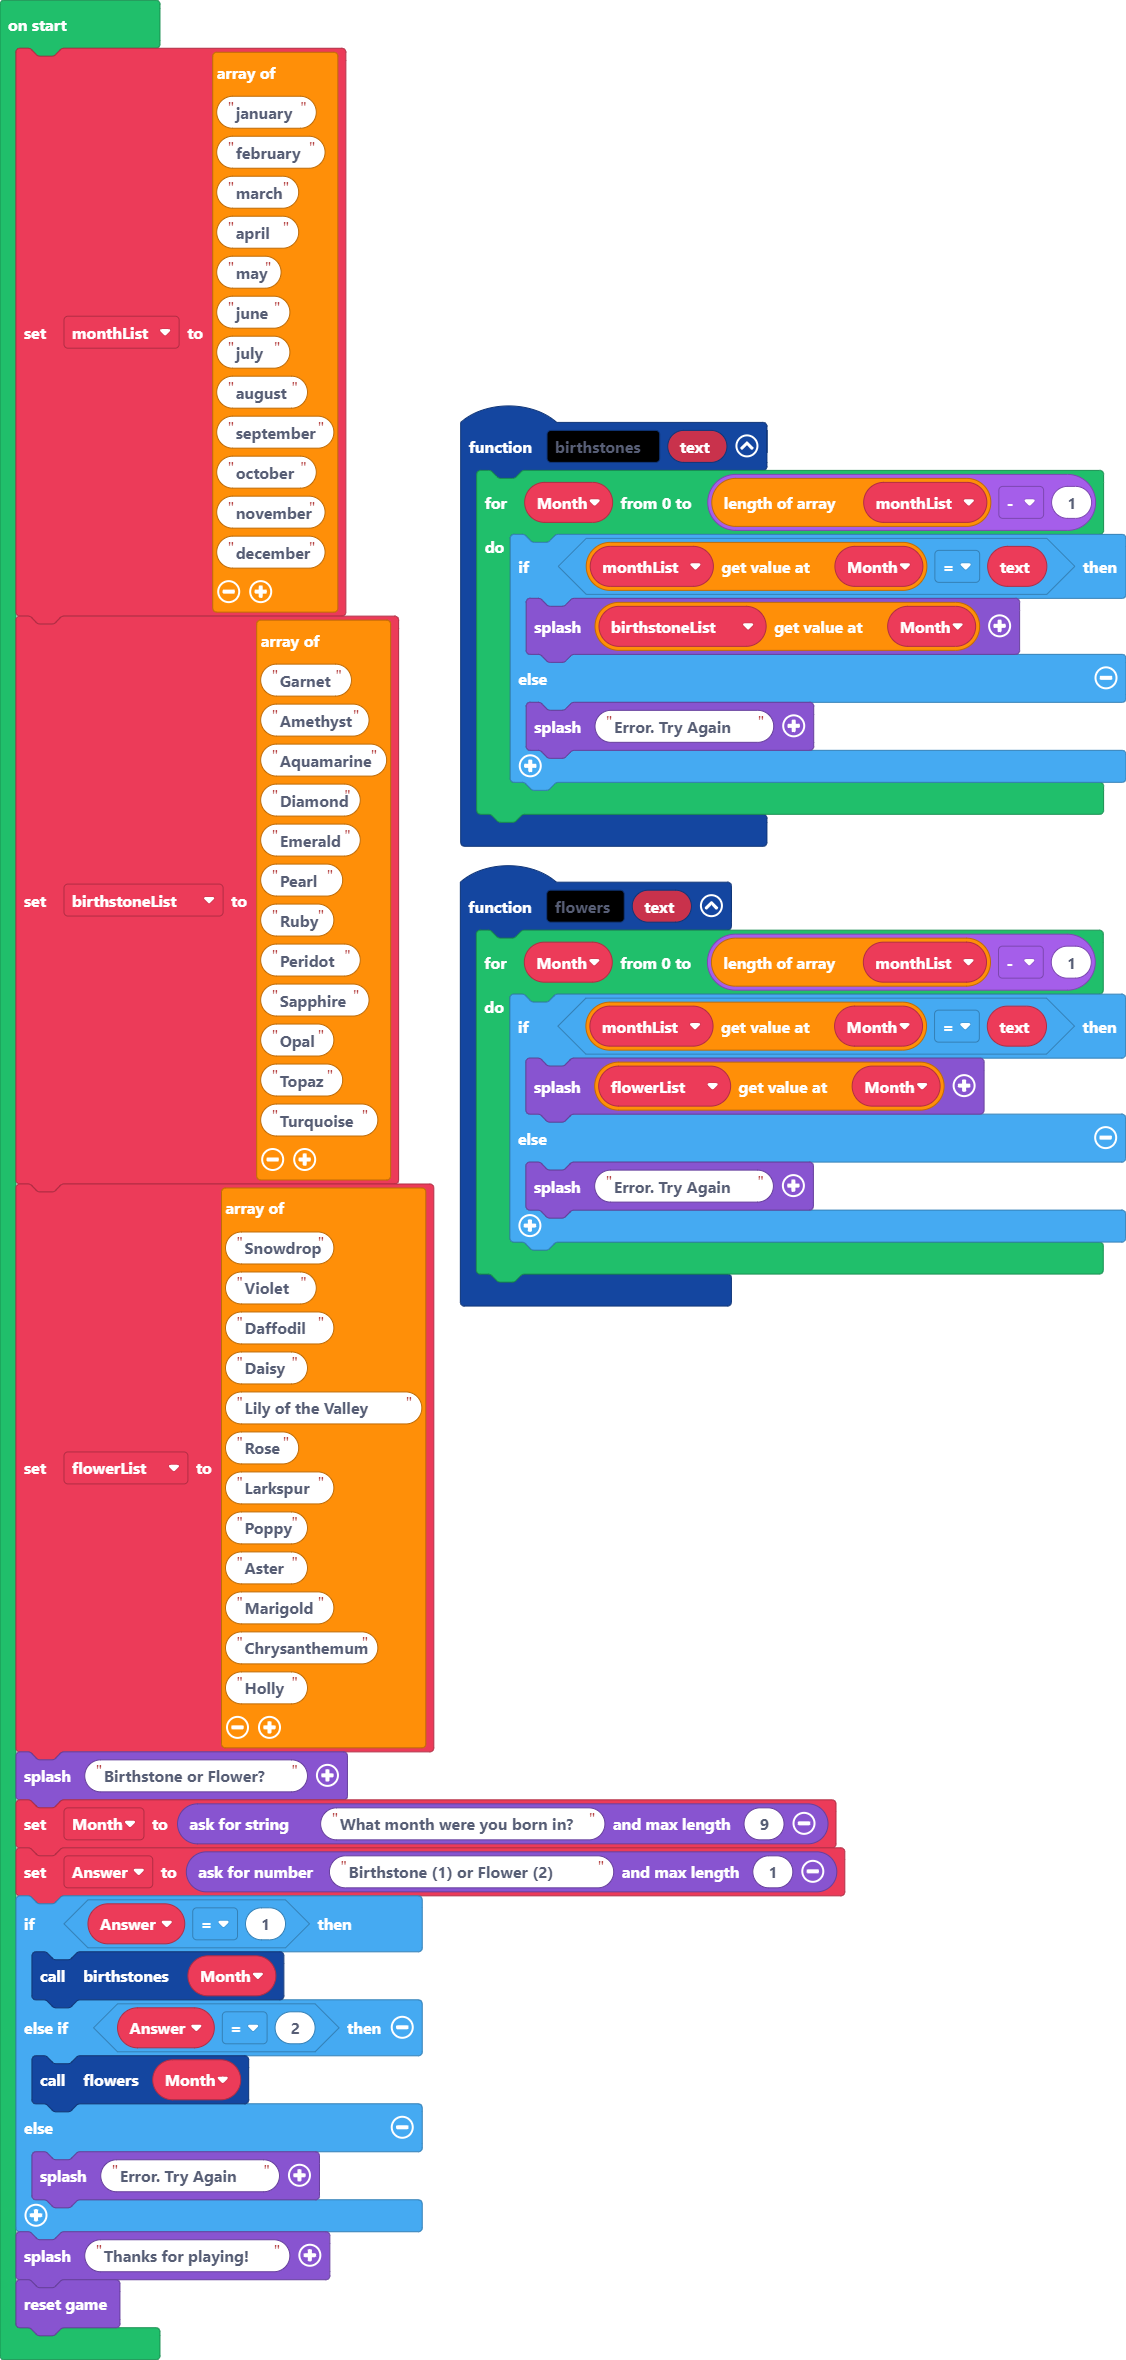
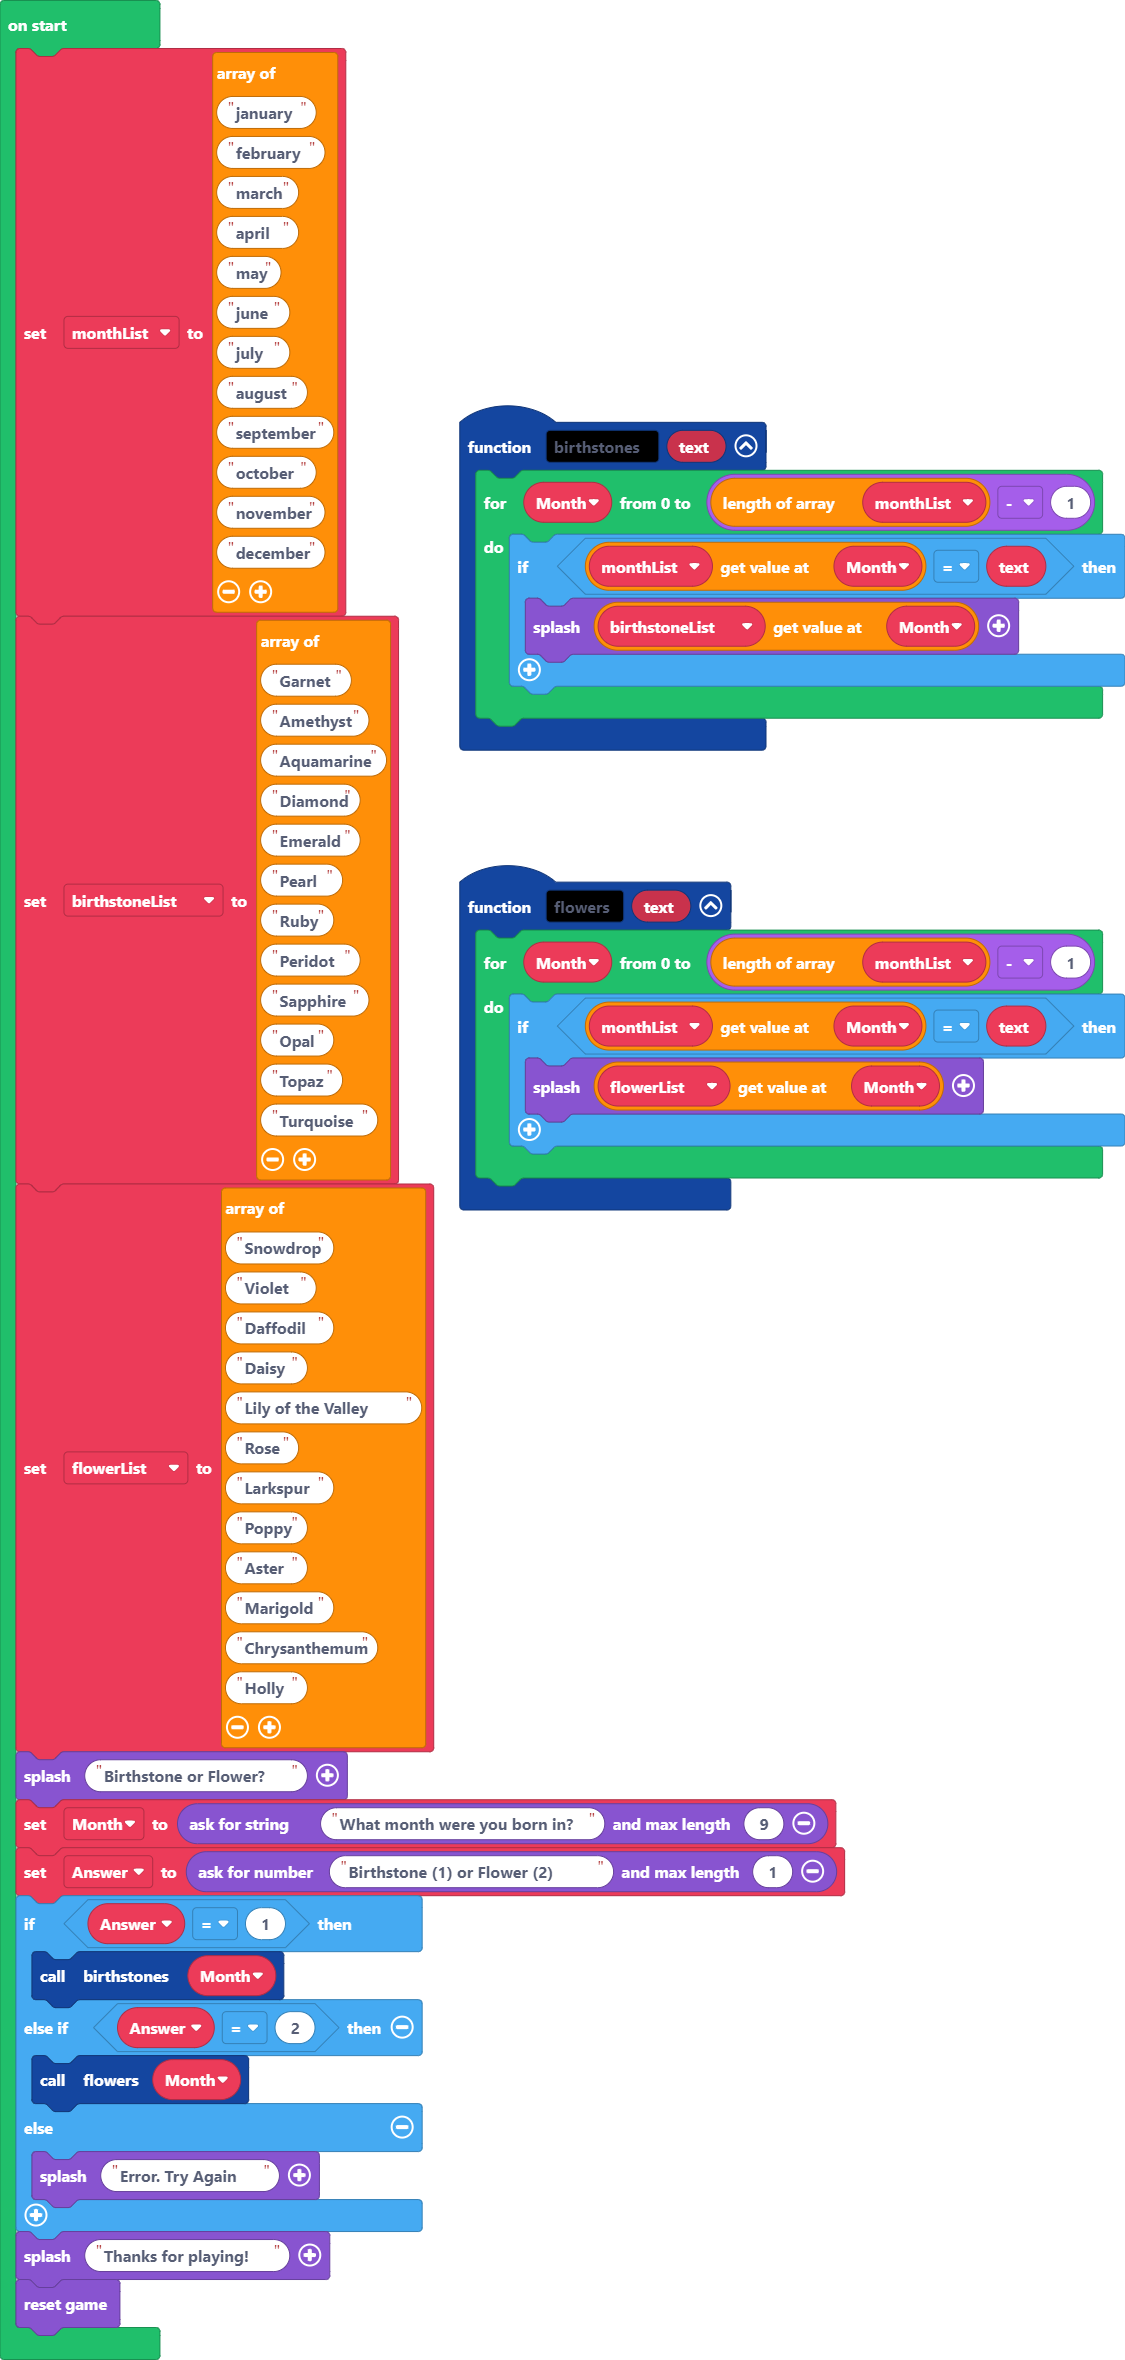
Update main.blocks, main.ts

diff --git a/main.ts b/main.ts
@@ -2,8 +2,6 @@ function birthstones (text: string) {
     for (let Month = 0; Month <= monthList.length - 1; Month++) {
         if (monthList[Month] == text) {
             game.splash(birthstoneList[Month])
-        } else {
-            game.splash("Error. Try Again")
         }
     }
 }
@@ -11,8 +9,6 @@ function flowers (text: string) {
     for (let Month = 0; Month <= monthList.length - 1; Month++) {
         if (monthList[Month] == text) {
             game.splash(flowerList[Month])
-        } else {
-            game.splash("Error. Try Again")
         }
     }
 }
@@ -62,8 +58,8 @@ flowerList = [
 "Holly"
 ]
 game.splash("Birthstone or Flower?")
-let Answer = game.askForNumber("Birthstone (1) or Flower (2)", 1)
 let Month = game.askForString("What month were you born in?", 9)
+let Answer = game.askForNumber("Birthstone (1) or Flower (2)", 1)
 if (Answer == 1) {
     birthstones(Month)
 } else if (Answer == 2) {
